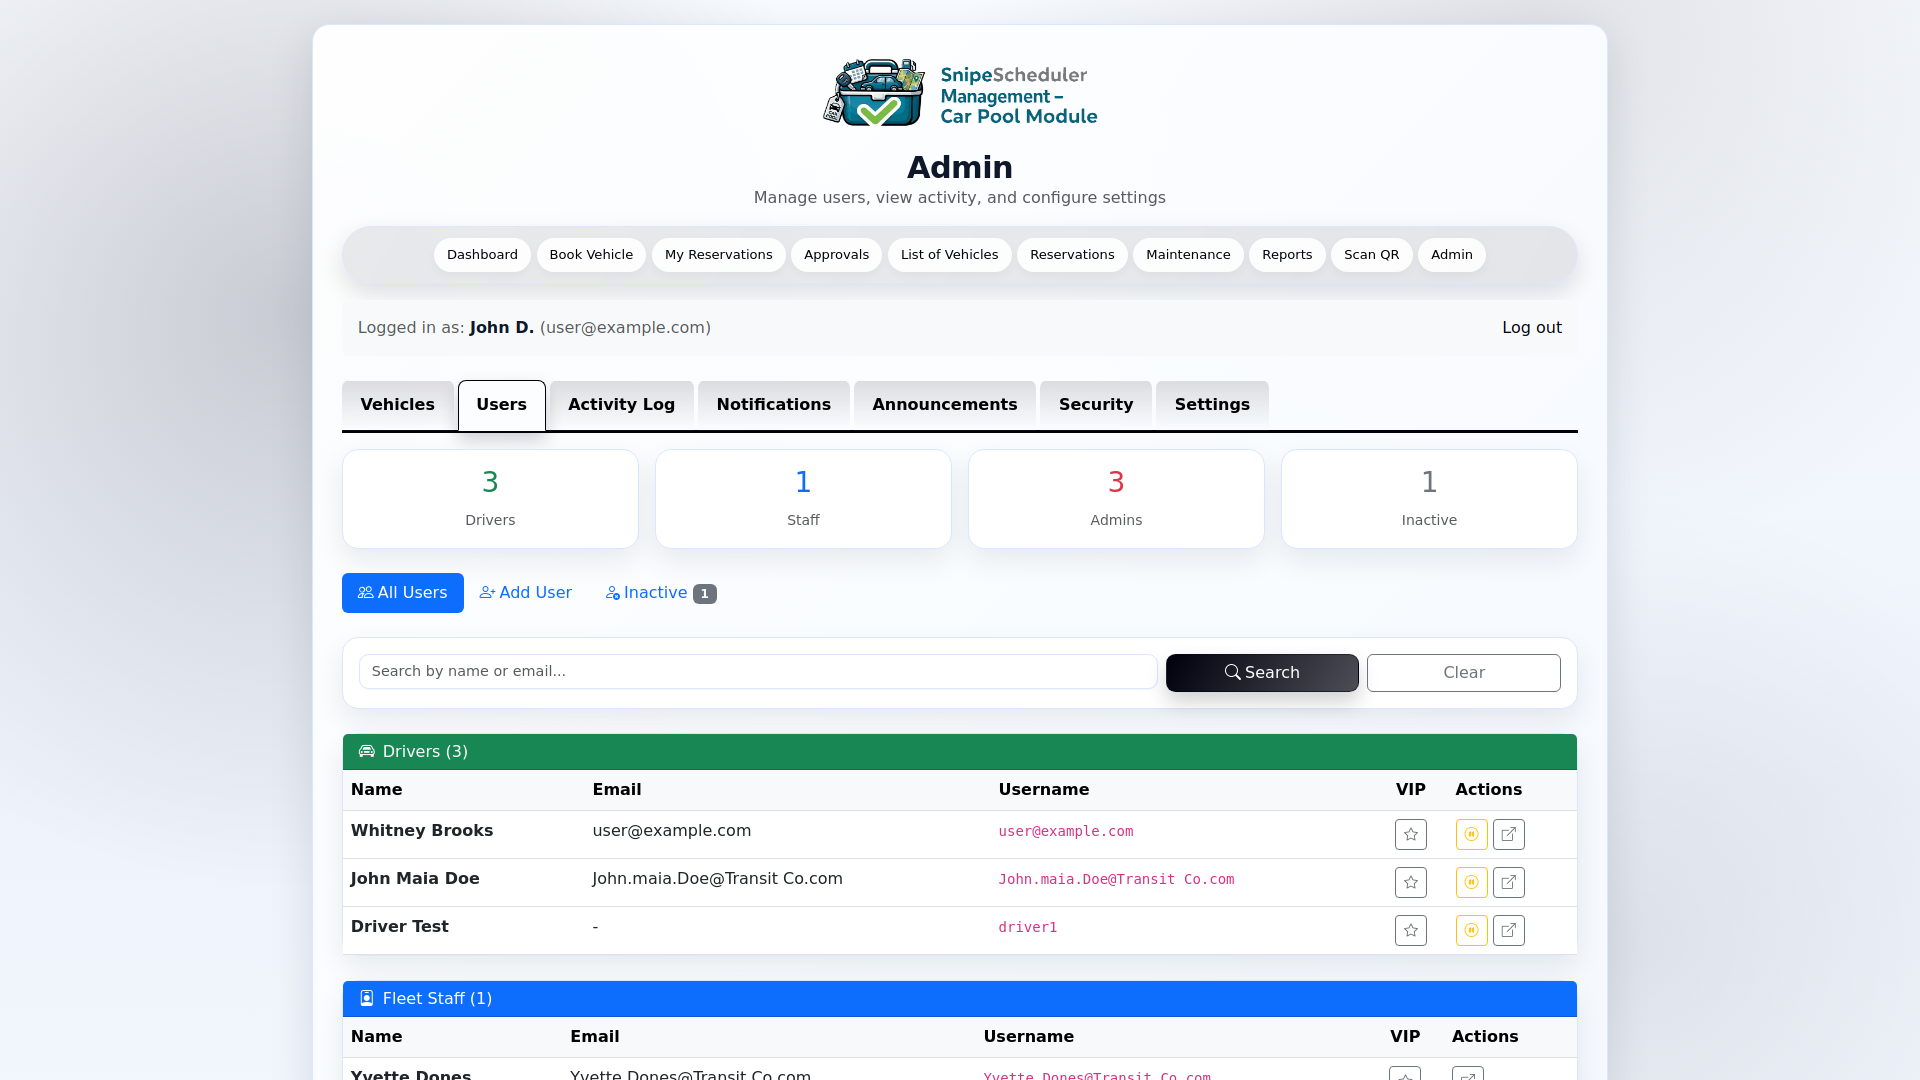
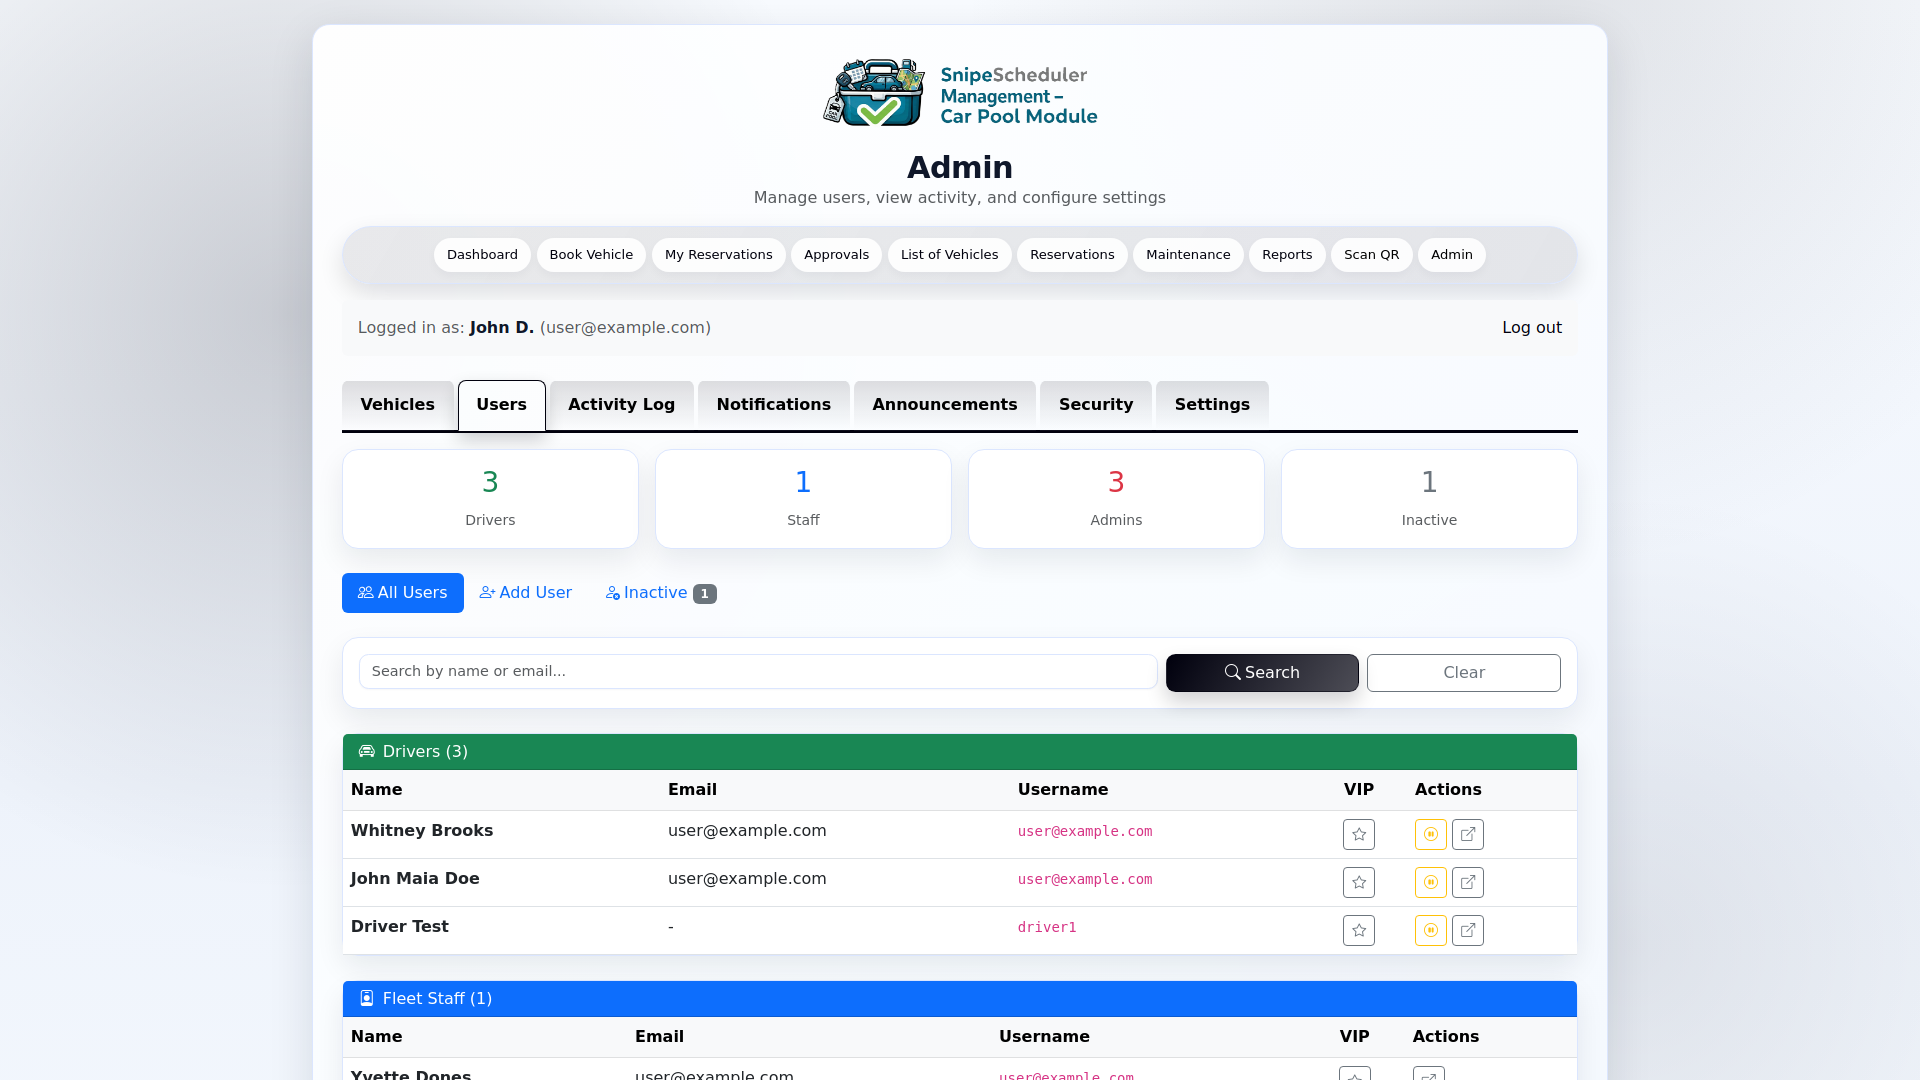
Update screenshots with additional anonymization
Added anonymization for:
- inventory.amtrakfdt.com → yoursite.com
- @amtrak.com → @email.com
- BPTR → FLEET
- FDT → Fleet

diff --git a/scripts/take-screenshots.js b/scripts/take-screenshots.js
@@ -41,12 +41,17 @@ const NAMES_TO_REPLACE = [
 
 // Location/address patterns to anonymize
 const LOCATIONS_TO_REPLACE = [
+    ['inventory.amtrakfdt.com', 'yoursite.com'],
+    ['amtrakfdt.com', 'yoursite.com'],
+    ['@amtrak.com', '@email.com'],
+    ['BPTR', 'FLEET'],
     ['B&P Office', 'Main Office'],
     ['B&P', 'Company'],
     ['Main office - primary vehicle pickup location', 'Main Office - Vehicle Pickup'],
     ['North Vent Facility', 'North Facility'],
     ['Area 4d:', 'Zone A:'],
     ['Amtrak', 'Transit Co'],
+    ['FDT', 'Fleet'],
 ];
 
 async function anonymizePage(page) {
